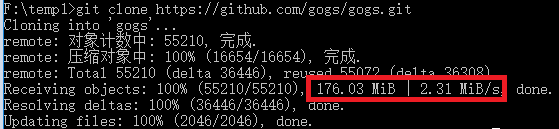
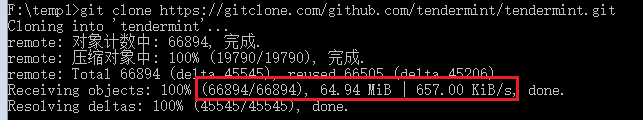
modified some configs

Changed region(s): [[0.0, 0.0, 1.0, 1.0], [0.8819, 0.975, 0.9123, 1.0], [0.3041, 0.15, 0.3345, 0.175]]

diff --git a/templates/home.html b/templates/home.html
@@ -84,8 +84,13 @@
 		>
 		<!-- <p style="line-height: 0.2em;"><span style="color:#2ddc2b">Administrator@9QDZCH8M0W0EK2S</span> <span style="color:#da239a">MINGW64</span> <span style="color: #e0cb21;">~/Desktop</span></p>
 		<p style="line-height: 1.8em;">$ git config url."http://gitclone.com/".insteadOf https://</p> -->
+		<p style="line-height: 0.2em;"><span style="color: #6A737D">方法一（直接clone）</span></p>
 		<p style="line-height: 0.2em;"><span style="color:#2ddc2b">Administrator@9QDZCH8M0W0EK2S</span> <span style="color:#da239a">MINGW64</span> <span style="color: #e0cb21;">~/Desktop</span></p>
 		<p style="line-height: 1.8em;">$ git clone https://gitclone.com/github.com/little51/codechain</p>
+		<p style="line-height: 0.2em;"><span style="color: #6A737D">方法二（设置git参数）</span></p>
+		<p style="line-height: 0.2em;"><span style="color:#2ddc2b">Administrator@9QDZCH8M0W0EK2S</span> <span style="color:#da239a">MINGW64</span> <span style="color: #e0cb21;">~/Desktop</span></p>
+		<p style="line-height: 0.5em;">$ git config --global url."https://gitclone.com/".insteadOf https://</p>
+		<p style="line-height: 0.5em;">$ git clone https://github.com/tendermint/tendermint.git</p>
 		</div>
 		<div
 			class="fadenum1"
@@ -155,7 +160,6 @@
 			url: RequestAddress
 		})
 		.then(function(res){
-			console.log("结果",res)
 			var count = res.data.count
 			document.getElementById("dongtai").innerHTML = "目前已经缓存" + count + "个站点"
 		})
